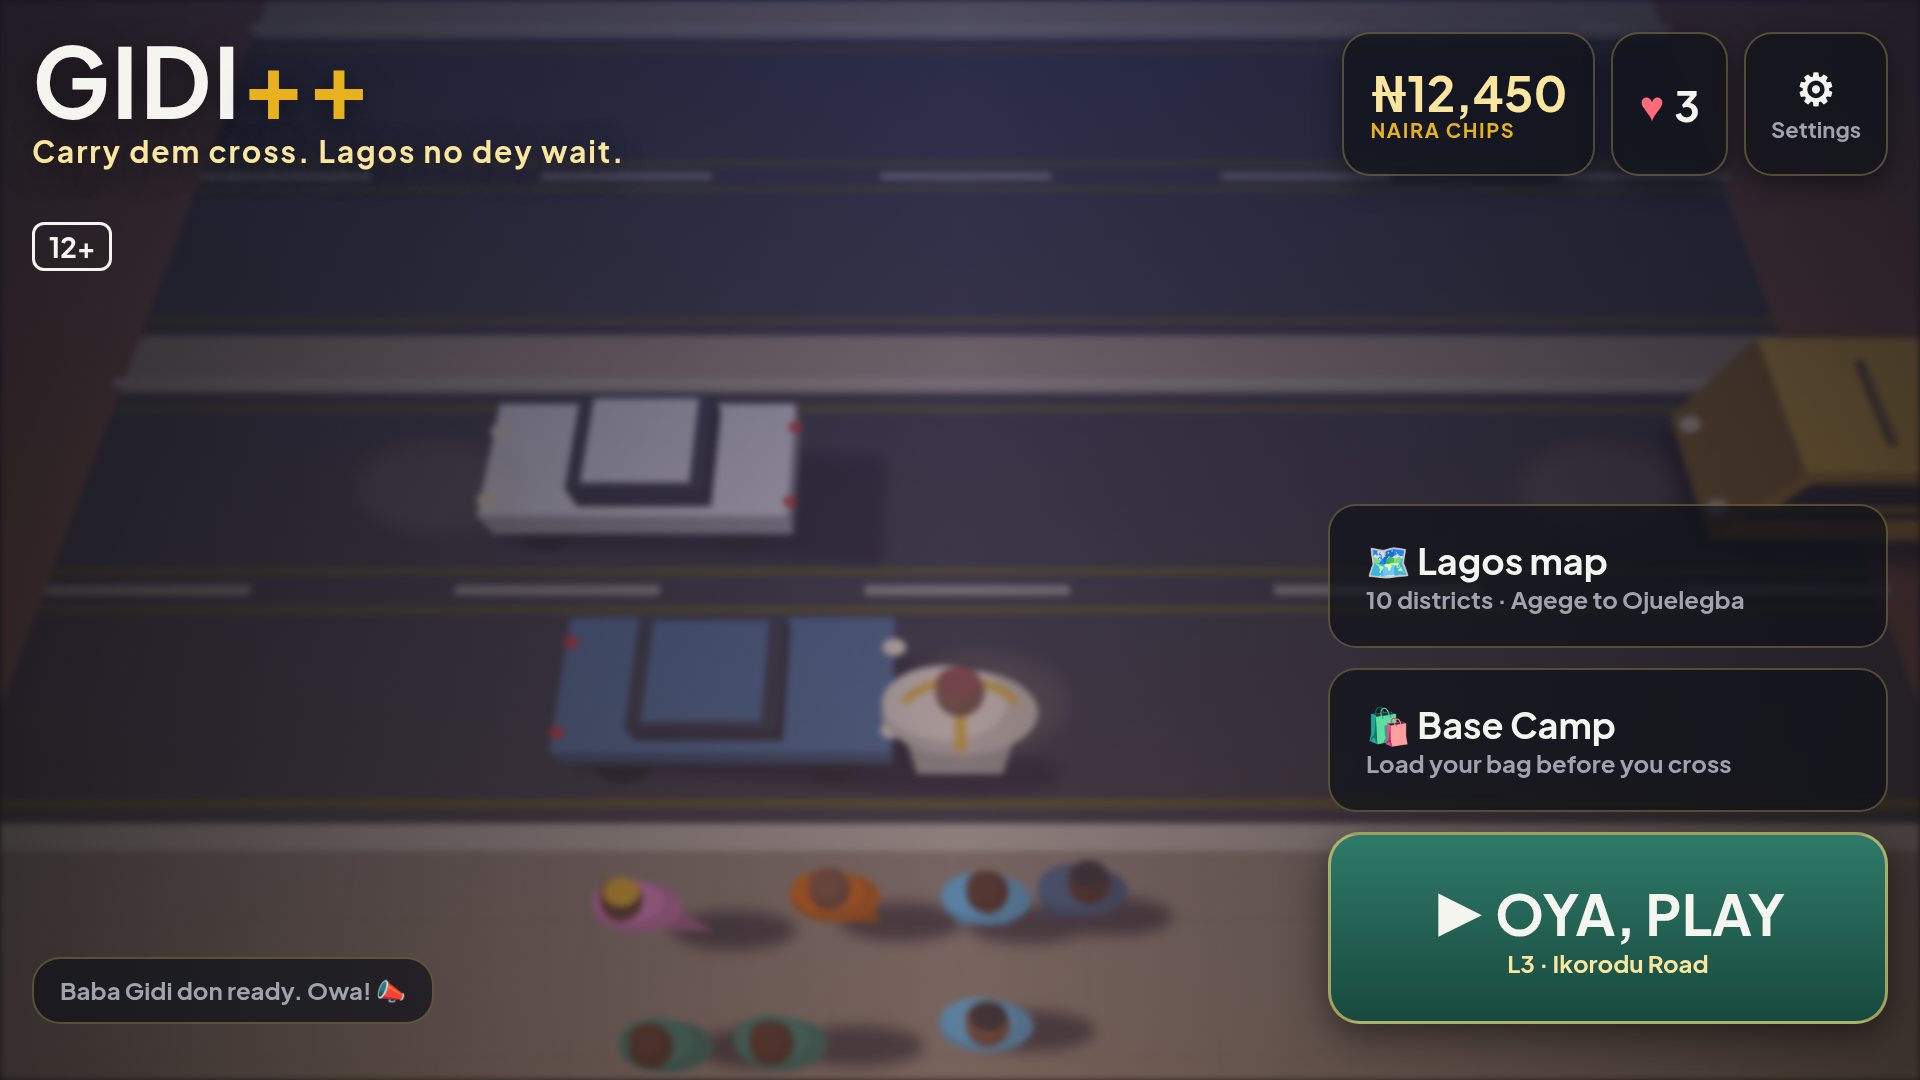
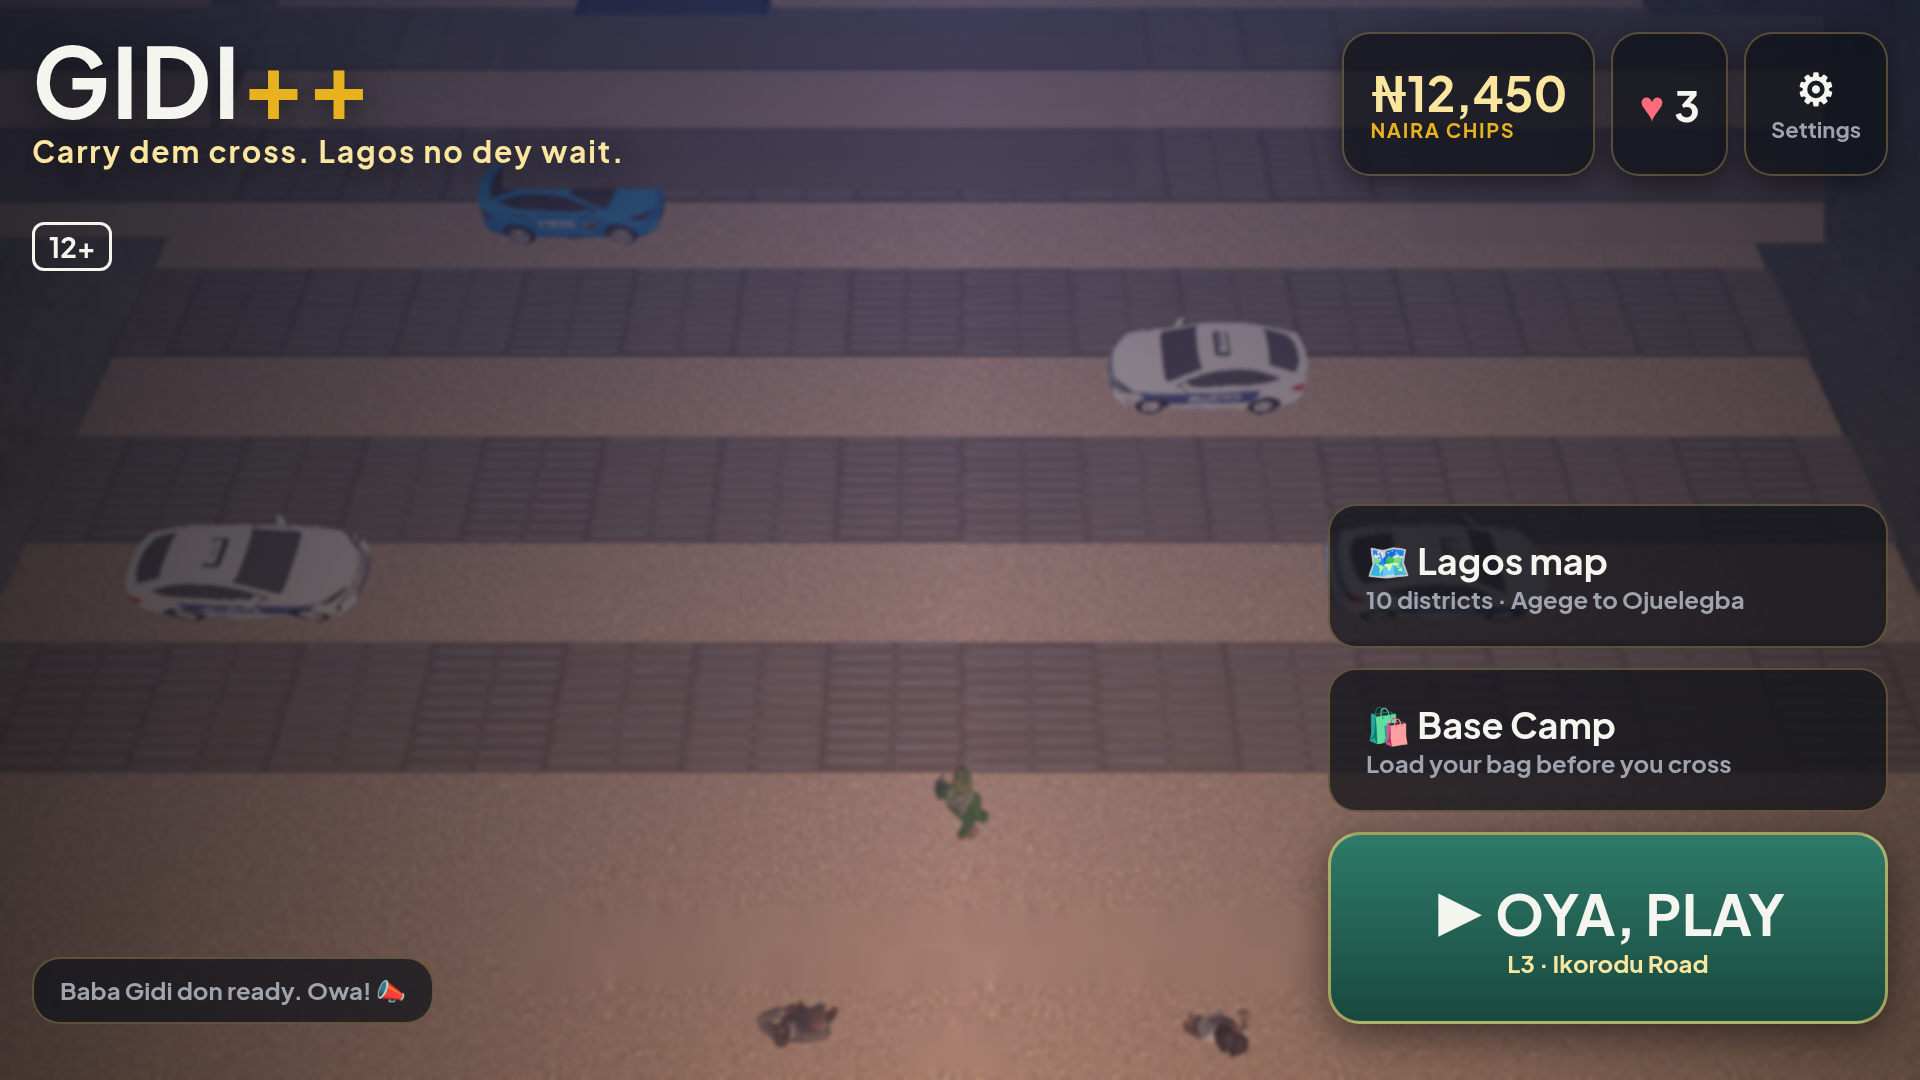
Mockup backgrounds from real L5/L9/L4 build screenshots (HUD inpainted, dusk grade); controls/layout/copy unchanged

diff --git a/screens.html b/screens.html
@@ -1,7 +1,7 @@
 <!doctype html><html lang="en"><head><meta charset="utf-8"><meta name="viewport" content="width=device-width,initial-scale=1"><title>Gidi++ · Screens</title><link rel="stylesheet" href="css/site.css"></head><body><nav><a class="brand" href="index.html">GIDI<span>++</span></a><a href="index.html">Brand</a><a href="guidelines.html">Guidelines</a><a href="palette.html">Palette</a><a href="typography.html">Typography</a><a href="icons.html">Icons</a><a href="logos.html">Logos & app icons</a><a href="screens.html" class=on>Screens</a><a href="levels.html">Levels</a><a href="costumes.html">Costumes</a><a href="souvenirs.html">Souvenirs & perks</a><a href="devices.html">Devices</a><small>Design system v0.1 · Oct 2026 · LANDSCAPE ONLY (RT-106) · internal, not published</small></nav><main><h1>Screens: landscape approval set <span class="badge">FOR KEHINDE · M1 Oct 30</span></h1><p class="lead">Each screen is shown at 1920×1080 desktop and in a 19.5:9 phone frame (2340×1080, notch and home-indicator safe areas). The HTML sources are in <code>mockups/</code>; PNGs are in <code>exports/</code>. Economy values come from <code>GidiEconomyTables</code>; wallet, timer and score values are samples.</p>
-<div class="card"><b>Gidi++ is a 3D game</b> (Unity URP, semi-real, perspective camera over the road and Baba Gidi). The scenes in these mockups are <b>drawn</b> (tools/render_scene.py: a pinhole render at the build camera: pitch 65°, 15 m / FOV 52°, or 20 m / FOV 58° on 8-lane stages), using the build captures in <code>reference/levels/</code> only as reference for camera, scale and controls. The controls match the build: a translucent gold-outlined PICK UP bottom-left and a translucent 8-direction d-pad bottom-right.</div>
+<div class="card"><b>Gidi++ is a 3D game</b> (Unity URP, semi-real, perspective camera over the road and Baba Gidi). Backgrounds are built from the <b>current build's level screenshots</b> (original camera) in <code>reference/levels/</code>: <b>in-run HUD = L5 Oshodi Expressway</b>, <b>Home = L9 Lekki Toll Gate</b> (lightly blurred), <b>Base Camp = L4 Mushin Market</b> and <b>Game over = L5 Oshodi Expressway</b> (blurred and darkened). The old in-game HUD was removed (row fill + inpainting), then each image was scaled 1.5× and given a light dusk grade, contrast and sharpening (<code>tools/prep_levels.py</code>). The controls match the build: a translucent gold-outlined PICK UP bottom-left and a translucent 8-direction d-pad bottom-right.</div>
 <h2 id="hud">1. In-run HUD over the 3D road (RT-106)</h2><p>The camera and control positions are exactly as in the current build. The controls overlapping the lane ends is accepted, as in the build (see spec).</p><img class="shot" src="exports/hud/hud-desktop-annotated.png"><p></p><img class="shot" src="exports/hud/hud-phone-annotated.png"><p>Spec: <a style="color:#FAE69E" href="exports/hud/HUD_Landscape_Spec.md">HUD_Landscape_Spec.md</a> (anchors, px/dp sizes, bands, camera framing, z-order). Clean versions: <a style="color:#FAE69E" href="exports/hud/hud-desktop.png">desktop</a> · <a style="color:#FAE69E" href="exports/hud/hud-phone.png">phone</a>.</p>
-<h2>2. Home</h2><p>"Carry dem cross. Lagos no dey wait." · "OYA, PLAY". Background: drawn street scene, blurred, with a dusk tint.</p><img class="shot" src="exports/home-desktop.png"><p></p><img class="shot" src="exports/home-phone.png">
+<h2>2. Home</h2><p>"Carry dem cross. Lagos no dey wait." · "OYA, PLAY". Background: L9 Lekki Toll Gate, lightly blurred, dusk tint.</p><img class="shot" src="exports/home-desktop.png"><p></p><img class="shot" src="exports/home-phone.png">
 <h2>3. Base Camp shop</h2><p>"Load your bag before you cross" · "OYA, CROSS!". Opens from L2 (<code>ShopAllowed</code>). Shown before L3: Owa (L2) and Maltina &amp; Gala / Pure Water (L3) are live; Change Bundle and VIP Siren unlock at L5, Agbero Whistle at L7. Costs and caps come from the tables. Real-money packs are cosmetic only, and their prices come from the store.</p><img class="shot" src="exports/shop-desktop.png"><p></p><img class="shot" src="exports/shop-phone.png">
 <h2>4. Game over</h2><p>Shown after the single continue is used or declined. Pidgin-first copy: "Chai! Traffic don catch you…", "TRY AM AGAIN".</p><img class="shot" src="exports/gameover-desktop.png"><p></p><img class="shot" src="exports/gameover-phone.png">
 <h2>Planned (phase 2)</h2><div class="stub">Lagos map level select, Settings, Onboarding steps 1–4, Continue modal (1/run), Pause, Stats, Level clear (cash-out grant 50 chips L1 / 75 chips L2+), loading / tip toast.</div></main></body></html>

diff --git a/mockups/hud-phone-annotated.html b/mockups/hud-phone-annotated.html
@@ -1,12 +1,12 @@
 <!doctype html><html><head><meta charset="utf-8"><title>HUD phone</title>
 <link rel="stylesheet" href="../css/hud.css"></head>
 <body style="width:2340px;height:1080px"><div class="frame phone" style="width:2340px;height:1080px;--sl:132px;--sr:132px;--st:0px;--sb:63px">
-<img class="scene" src="../assets/bg/scene_phone.png" width="2340" height="1080" alt="">
+<img class="scene" src="../assets/bg/lv_hud_phone.png" width="2340" height="1080" alt="">
 <div class="notch"></div><div class="homebar"></div>
 <div class="safe">
   <div class="toprow">
   <div class="hud-tl glass" id="level">
-    <div class="lvl">L8 · 3RD MAINLAND</div>
+    <div class="lvl long">L5 · Oshodi Expressway</div>
     <div class="meta">Saved <b>4/6</b> · Best <b>00:42</b> · <span class="t">00:31</span></div>
   </div>
   <div class="hud-tc glass" id="stock">
@@ -30,7 +30,7 @@
    <h4>CAMERA: as in the current build (no change)</h4>
    <ul><li>URP perspective camera, pitch 65°, yaw 0, X locked, follows the crowd on Z (TailCameraFollow)</li>
    <li>Standard stages: height 15 m, focus offset Z −5 m, vertical FOV 52°</li>
-   <li>Wide stages (≥ 8 lanes, e.g. L8 here): height 20 m, FOV 58°</li>
+   <li>Wide stages (≥ 8 lanes): height 20 m, FOV 58°. Shown: L5 (standard)</li>
    <li>Road narrows with distance; lanes enter from the screen edges</li>
    <li>Controls stay where the build puts them; their overlap with lane ends is accepted, as in the build</li></ul></div>
   <div class="note z"><h4>Z-ORDER</h4><ol><li>3D scene</li><li>World telegraphs</li><li>HUD glass panels</li><li>Touch controls (translucent)</li><li>Toasts</li><li>Modals</li></ol></div>

diff --git a/mockups/hud-desktop-annotated.html b/mockups/hud-desktop-annotated.html
@@ -1,12 +1,12 @@
 <!doctype html><html><head><meta charset="utf-8"><title>HUD desktop</title>
 <link rel="stylesheet" href="../css/hud.css"></head>
 <body style="width:1920px;height:1080px"><div class="frame desktop" style="width:1920px;height:1080px;--sl:32px;--sr:32px;--st:32px;--sb:32px">
-<img class="scene" src="../assets/bg/scene_desktop.png" width="1920" height="1080" alt="">
+<img class="scene" src="../assets/bg/lv_hud_desktop.png" width="1920" height="1080" alt="">
 
 <div class="safe">
   <div class="toprow">
   <div class="hud-tl glass" id="level">
-    <div class="lvl">L8 · 3RD MAINLAND</div>
+    <div class="lvl long">L5 · Oshodi Expressway</div>
     <div class="meta">Saved <b>4/6</b> · Best <b>00:42</b> · <span class="t">00:31</span></div>
   </div>
   <div class="hud-tc glass" id="stock">
@@ -30,7 +30,7 @@
    <h4>CAMERA: as in the current build (no change)</h4>
    <ul><li>URP perspective camera, pitch 65°, yaw 0, X locked, follows the crowd on Z (TailCameraFollow)</li>
    <li>Standard stages: height 15 m, focus offset Z −5 m, vertical FOV 52°</li>
-   <li>Wide stages (≥ 8 lanes, e.g. L8 here): height 20 m, FOV 58°</li>
+   <li>Wide stages (≥ 8 lanes): height 20 m, FOV 58°. Shown: L5 (standard)</li>
    <li>Road narrows with distance; lanes enter from the screen edges</li>
    <li>Controls stay where the build puts them; their overlap with lane ends is accepted, as in the build</li></ul></div>
   <div class="note z"><h4>Z-ORDER</h4><ol><li>3D scene</li><li>World telegraphs</li><li>HUD glass panels</li><li>Touch controls (translucent)</li><li>Toasts</li><li>Modals</li></ol></div>

diff --git a/mockups/shop-phone.html b/mockups/shop-phone.html
@@ -1,6 +1,6 @@
 <!doctype html><html><head><meta charset="utf-8"><title>Base Camp phone</title>
 <link rel="stylesheet" href="../css/hud.css"><link rel="stylesheet" href="../css/mock.css"></head>
-<body style="width:2340px;height:1080px"><div class="frame phone realbg shop" style="width:2340px;height:1080px;--sl:132px;--sr:132px;--st:0px;--sb:63px"><img class="scene" src="../assets/bg/scene2_phone.png" alt=""><div class="grade"></div>
+<body style="width:2340px;height:1080px"><div class="frame phone realbg shop" style="width:2340px;height:1080px;--sl:132px;--sr:132px;--st:0px;--sb:63px"><img class="scene" src="../assets/bg/lv_shop_phone.png" alt=""><div class="grade"></div>
 <div class="notch"></div><div class="homebar"></div>
 <div class="safe">
 <div class="toprow"><div class="hud-tl glass"><div class="lvl">BASE CAMP</div><div class="meta">Load your bag before L3 · Ikorodu Road</div></div><div class="hud-tr"><div class="glass chips"><span class="amt">₦12,450</span><small>NAIRA CHIPS</small></div>

diff --git a/mockups/home-phone.html b/mockups/home-phone.html
@@ -1,6 +1,6 @@
 <!doctype html><html><head><meta charset="utf-8"><title>Home phone</title>
 <link rel="stylesheet" href="../css/hud.css"><link rel="stylesheet" href="../css/mock.css"></head>
-<body style="width:2340px;height:1080px"><div class="frame phone realbg home" style="width:2340px;height:1080px;--sl:132px;--sr:132px;--st:0px;--sb:63px"><img class="scene" src="../assets/bg/scene2_phone.png" alt=""><div class="grade"></div>
+<body style="width:2340px;height:1080px"><div class="frame phone realbg home" style="width:2340px;height:1080px;--sl:132px;--sr:132px;--st:0px;--sb:63px"><img class="scene" src="../assets/bg/lv_home_phone.png" alt=""><div class="grade"></div>
 <div class="notch"></div><div class="homebar"></div>
 <div class="safe">
 <div class="toprow"><div class="logo">GIDI<span>++</span><small>Carry dem cross. Lagos no dey wait.</small></div><div class="hud-tr"><div class="glass chips"><span class="amt">₦12,450</span><small>NAIRA CHIPS</small></div>

diff --git a/mockups/shop-desktop.html b/mockups/shop-desktop.html
@@ -1,6 +1,6 @@
 <!doctype html><html><head><meta charset="utf-8"><title>Base Camp desktop</title>
 <link rel="stylesheet" href="../css/hud.css"><link rel="stylesheet" href="../css/mock.css"></head>
-<body style="width:1920px;height:1080px"><div class="frame desktop realbg shop" style="width:1920px;height:1080px;--sl:32px;--sr:32px;--st:32px;--sb:32px"><img class="scene" src="../assets/bg/scene2_desktop.png" alt=""><div class="grade"></div>
+<body style="width:1920px;height:1080px"><div class="frame desktop realbg shop" style="width:1920px;height:1080px;--sl:32px;--sr:32px;--st:32px;--sb:32px"><img class="scene" src="../assets/bg/lv_shop_desktop.png" alt=""><div class="grade"></div>
 
 <div class="safe">
 <div class="toprow"><div class="hud-tl glass"><div class="lvl">BASE CAMP</div><div class="meta">Load your bag before L3 · Ikorodu Road</div></div><div class="hud-tr"><div class="glass chips"><span class="amt">₦12,450</span><small>NAIRA CHIPS</small></div>

diff --git a/mockups/home-desktop.html b/mockups/home-desktop.html
@@ -1,6 +1,6 @@
 <!doctype html><html><head><meta charset="utf-8"><title>Home desktop</title>
 <link rel="stylesheet" href="../css/hud.css"><link rel="stylesheet" href="../css/mock.css"></head>
-<body style="width:1920px;height:1080px"><div class="frame desktop realbg home" style="width:1920px;height:1080px;--sl:32px;--sr:32px;--st:32px;--sb:32px"><img class="scene" src="../assets/bg/scene2_desktop.png" alt=""><div class="grade"></div>
+<body style="width:1920px;height:1080px"><div class="frame desktop realbg home" style="width:1920px;height:1080px;--sl:32px;--sr:32px;--st:32px;--sb:32px"><img class="scene" src="../assets/bg/lv_home_desktop.png" alt=""><div class="grade"></div>
 
 <div class="safe">
 <div class="toprow"><div class="logo">GIDI<span>++</span><small>Carry dem cross. Lagos no dey wait.</small></div><div class="hud-tr"><div class="glass chips"><span class="amt">₦12,450</span><small>NAIRA CHIPS</small></div>

diff --git a/mockups/hud-phone.html b/mockups/hud-phone.html
@@ -1,12 +1,12 @@
 <!doctype html><html><head><meta charset="utf-8"><title>HUD phone</title>
 <link rel="stylesheet" href="../css/hud.css"></head>
 <body style="width:2340px;height:1080px"><div class="frame phone" style="width:2340px;height:1080px;--sl:132px;--sr:132px;--st:0px;--sb:63px">
-<img class="scene" src="../assets/bg/scene_phone.png" width="2340" height="1080" alt="">
+<img class="scene" src="../assets/bg/lv_hud_phone.png" width="2340" height="1080" alt="">
 <div class="notch"></div><div class="homebar"></div>
 <div class="safe">
   <div class="toprow">
   <div class="hud-tl glass" id="level">
-    <div class="lvl">L8 · 3RD MAINLAND</div>
+    <div class="lvl long">L5 · Oshodi Expressway</div>
     <div class="meta">Saved <b>4/6</b> · Best <b>00:42</b> · <span class="t">00:31</span></div>
   </div>
   <div class="hud-tc glass" id="stock">

diff --git a/mockups/hud-desktop.html b/mockups/hud-desktop.html
@@ -1,12 +1,12 @@
 <!doctype html><html><head><meta charset="utf-8"><title>HUD desktop</title>
 <link rel="stylesheet" href="../css/hud.css"></head>
 <body style="width:1920px;height:1080px"><div class="frame desktop" style="width:1920px;height:1080px;--sl:32px;--sr:32px;--st:32px;--sb:32px">
-<img class="scene" src="../assets/bg/scene_desktop.png" width="1920" height="1080" alt="">
+<img class="scene" src="../assets/bg/lv_hud_desktop.png" width="1920" height="1080" alt="">
 
 <div class="safe">
   <div class="toprow">
   <div class="hud-tl glass" id="level">
-    <div class="lvl">L8 · 3RD MAINLAND</div>
+    <div class="lvl long">L5 · Oshodi Expressway</div>
     <div class="meta">Saved <b>4/6</b> · Best <b>00:42</b> · <span class="t">00:31</span></div>
   </div>
   <div class="hud-tc glass" id="stock">

diff --git a/mockups/gameover-phone.html b/mockups/gameover-phone.html
@@ -1,6 +1,6 @@
 <!doctype html><html><head><meta charset="utf-8"><title>Game over phone</title>
 <link rel="stylesheet" href="../css/hud.css"><link rel="stylesheet" href="../css/mock.css"></head>
-<body style="width:2340px;height:1080px"><div class="frame phone realbg gameover" style="width:2340px;height:1080px;--sl:132px;--sr:132px;--st:0px;--sb:63px"><img class="scene" src="../assets/bg/scene_phone.png" alt=""><div class="grade"></div>
+<body style="width:2340px;height:1080px"><div class="frame phone realbg gameover" style="width:2340px;height:1080px;--sl:132px;--sr:132px;--st:0px;--sb:63px"><img class="scene" src="../assets/bg/lv_gameover_phone.png" alt=""><div class="grade"></div>
 <div class="notch"></div><div class="homebar"></div>
 <div class="safe">
 <div class="dim"></div>

diff --git a/mockups/gameover-desktop.html b/mockups/gameover-desktop.html
@@ -1,6 +1,6 @@
 <!doctype html><html><head><meta charset="utf-8"><title>Game over desktop</title>
 <link rel="stylesheet" href="../css/hud.css"><link rel="stylesheet" href="../css/mock.css"></head>
-<body style="width:1920px;height:1080px"><div class="frame desktop realbg gameover" style="width:1920px;height:1080px;--sl:32px;--sr:32px;--st:32px;--sb:32px"><img class="scene" src="../assets/bg/scene_desktop.png" alt=""><div class="grade"></div>
+<body style="width:1920px;height:1080px"><div class="frame desktop realbg gameover" style="width:1920px;height:1080px;--sl:32px;--sr:32px;--st:32px;--sb:32px"><img class="scene" src="../assets/bg/lv_gameover_desktop.png" alt=""><div class="grade"></div>
 
 <div class="safe">
 <div class="dim"></div>

diff --git a/css/hud.css b/css/hud.css
@@ -51,3 +51,4 @@ body{background:#000;font-family:Jakarta,system-ui,sans-serif;font-weight:700;co
 .pick2{position:absolute;z-index:4;border-radius:50%;background:radial-gradient(circle,rgba(232,178,30,.30),rgba(232,178,30,.16) 70%);border:6px solid rgba(232,178,30,.88);display:flex;flex-direction:column;align-items:center;justify-content:center;color:rgba(255,236,190,.95);box-shadow:0 0 0 3px rgba(0,0,0,.12),0 8px 24px rgba(0,0,0,.25)}
 .pick2 b{font-size:44px;line-height:1}.pick2 span{font-size:26px;letter-spacing:.04em}
 .dpad2{position:absolute;z-index:4}
+.lvl.long{font-size:34px}
